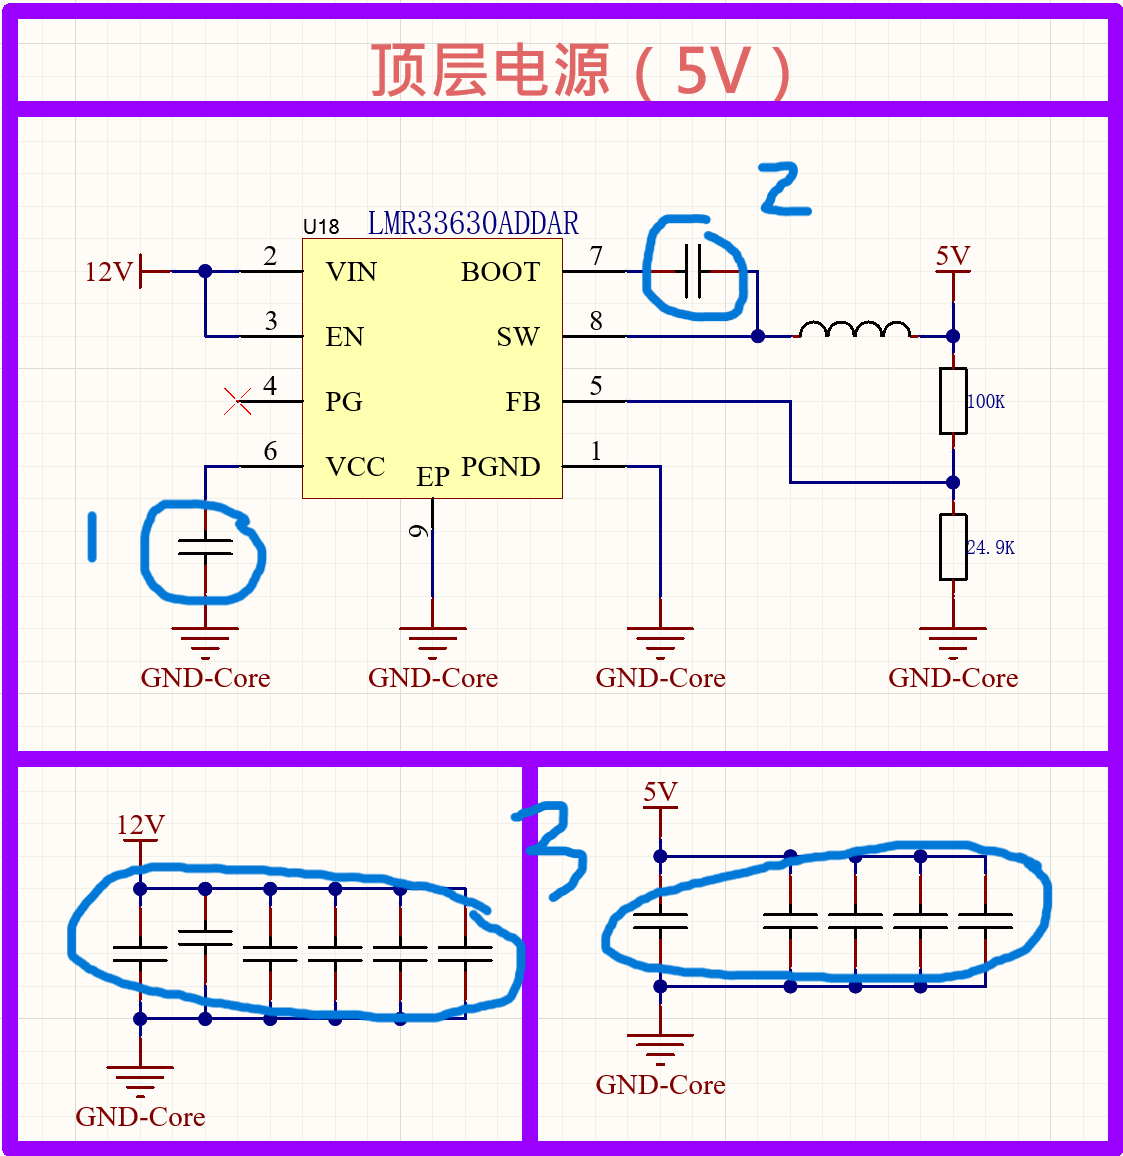
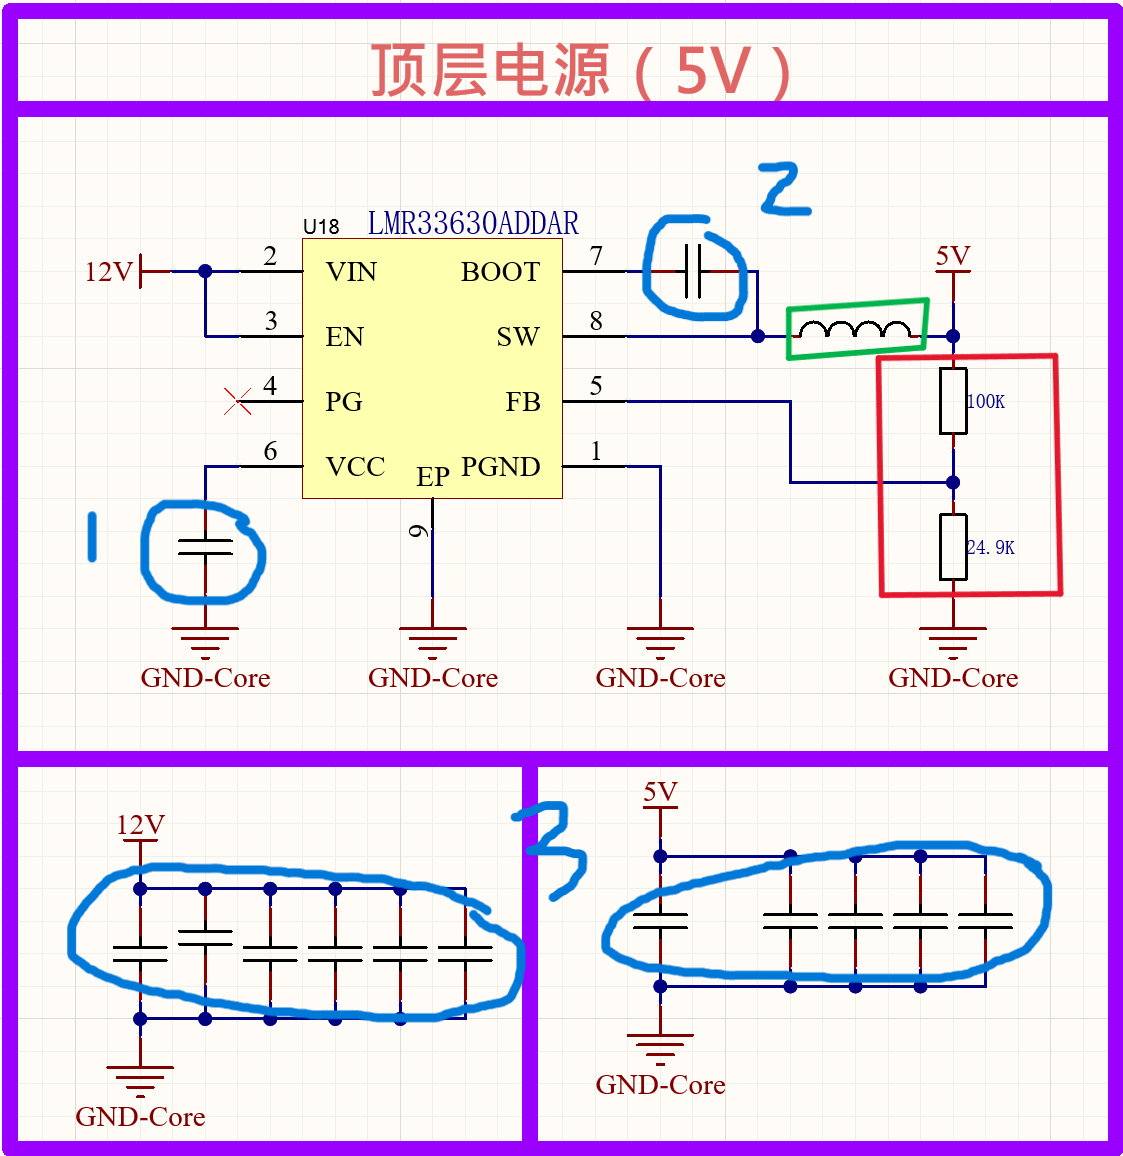
电感 电阻分析

Changed region(s): [[0.6857, 0.2491, 0.9662, 0.5294]]

diff --git a/LMR33630电路分析.md b/LMR33630电路分析.md
@@ -60,6 +60,23 @@
         *|  Ugs | = | 12V - Ug | = 5V*，\
         保证沟道可以正常开启。
         > 详见[电源电路.md](电源电路.md)
+
   - 电容3：电源**去耦电容**
     - 抑制电源噪声
       - 不同容量大小电容组合，以便抑制不同频率的噪声。
+    > 详见[基础元件.md](基础元件.md)
+    
+  - 电感：滤波电感，平滑高侧mos管输出的高压脉冲。
+    - 通过储存电荷并维持极板间电压，在DCDC稳压电路中快速的充放电，直接缓冲电压突变、吸收纹波电流，从而平滑输出电压。
+    > 详见[电源电路.md](电源电路.md)
+
+  - 电阻：构成外部采样电路，将实际输出电压转换为 FB 引脚可处理的低压。
+    - *Vref = 1V*，FB 引脚电压 *Ufb* 应在 *Vref* 附近。\
+        上、下两颗电阻阻值为 *Rtop* 、 *Rbot*。
+    - FB 引脚电压
+    $$ U_{fb} = U_{out} \times \frac{R_{bot}}{R_{top}+R_{bot}} $$
+      于是有，
+    $$ \frac{R_{top}}{R_{bot}} = \frac{U_{out}-U_{fb}}{U_{fb}} $$
+    - 稳态时，应该有 *Ufb = Vref = 1V*。
+    - 选定 *Rbot = 100kΩ*，依据目标输出值 *Uout = 5V*，计算得到 *Rbot = 25kΩ*。与实际 *Rbot = 24.9kΩ* 误差小于0.5%（参照24.9kΩ，实际 *Uout = 5.016V*）。
+    > 后续 *Ufb* 控制高侧mos管输出原理见[电源电路.md](电源电路.md)
